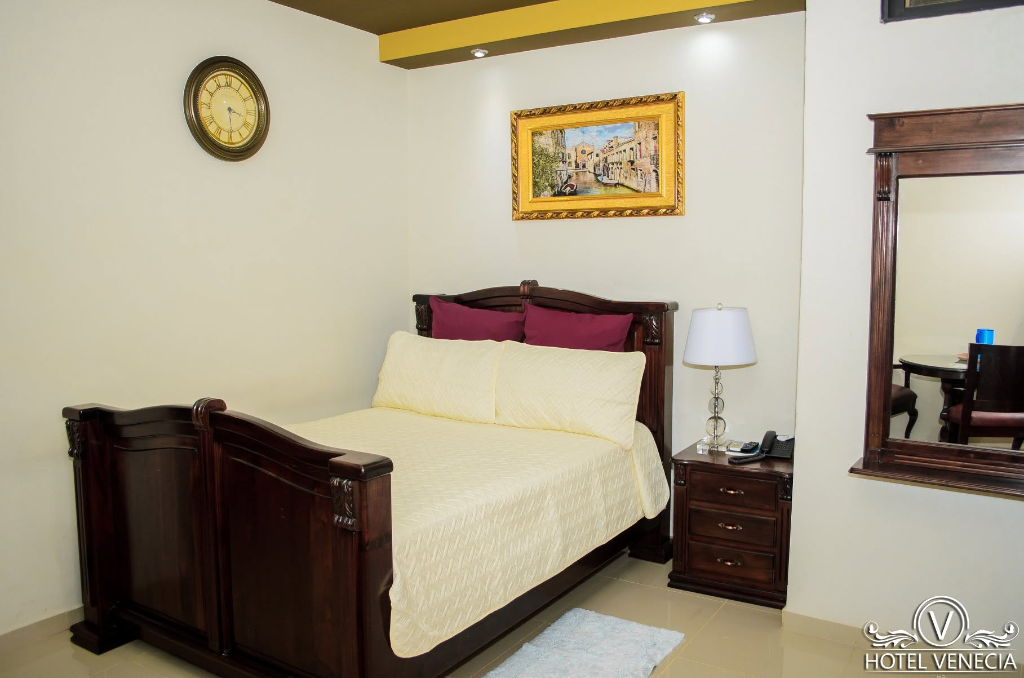
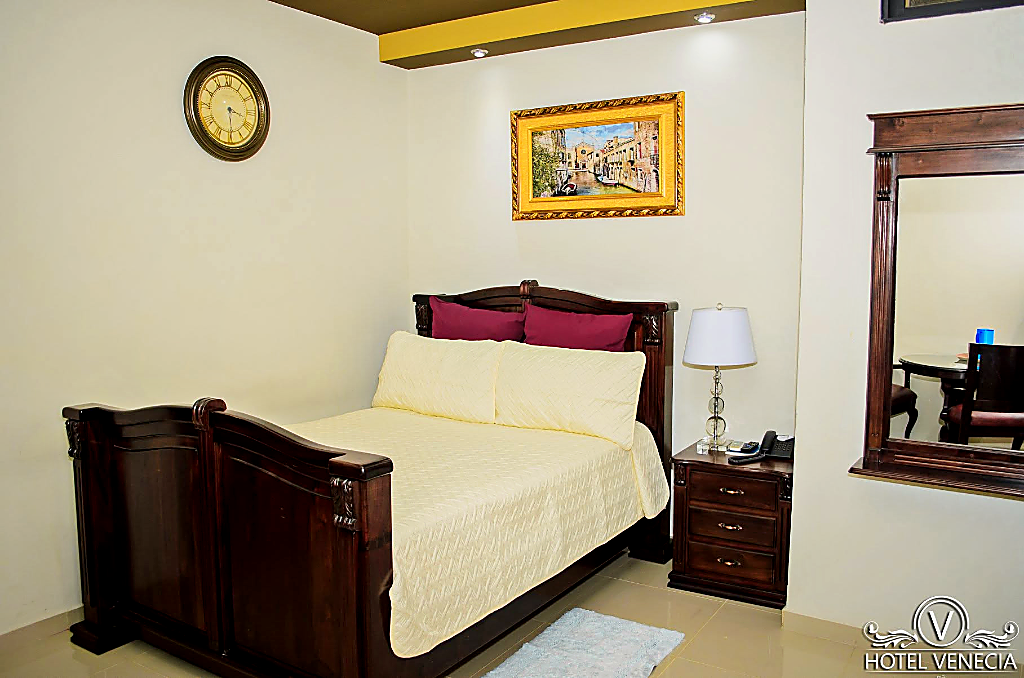
style(media): aplicar postproduccion de iluminacion, sombras, color calido y limpieza de bordes a fotos de habitaciones

diff --git a/index.html b/index.html
@@ -392,7 +392,7 @@
         <div class="rooms-grid">
           <a class="room reveal" id="room-sencilla" target="_blank" rel="noopener"
             href="https://wa.me/50499377949?text=Hola%2C%20consulto%20disponibilidad%20de%20habitaci%C3%B3n%20Sencilla">
-            <div class="room__img" style="background-image:url('assets/img/habitacion.png')">
+            <div class="room__img" style="background-image:url('assets/img/habitacion.png?v=20261119d')">
               <svg class="room__arch" viewBox="0 0 400 42" preserveAspectRatio="none" aria-hidden="true">
                 <path d="M0,42 Q200,0 400,42 Z" fill="#FBF7F1" />
                 <path d="M0,41 Q200,0 400,41" fill="none" stroke="#C99A4E" stroke-width="2.2" />
@@ -405,7 +405,7 @@
 
           <a class="room reveal" id="room-doble" target="_blank" rel="noopener"
             href="https://wa.me/50499377949?text=Hola%2C%20consulto%20disponibilidad%20de%20habitaci%C3%B3n%20Doble">
-            <div class="room__img" style="background-image:url('assets/img/habitacion-doble.jpg');background-position:center">
+            <div class="room__img" style="background-image:url('assets/img/habitacion-doble.jpg?v=20261119d');background-position:center">
               <svg class="room__arch" viewBox="0 0 400 42" preserveAspectRatio="none" aria-hidden="true">
                 <path d="M0,42 Q200,0 400,42 Z" fill="#FBF7F1" />
                 <path d="M0,41 Q200,0 400,41" fill="none" stroke="#C99A4E" stroke-width="2.2" />
@@ -418,7 +418,7 @@
 
           <a class="room reveal" id="room-triple" target="_blank" rel="noopener"
             href="https://wa.me/50499377949?text=Hola%2C%20consulto%20disponibilidad%20de%20habitaci%C3%B3n%20Triple">
-            <div class="room__img" style="background-image:url('assets/img/habitacion-triple.jpg');background-position:center">
+            <div class="room__img" style="background-image:url('assets/img/habitacion-triple.jpg?v=20261119d');background-position:center">
               <svg class="room__arch" viewBox="0 0 400 42" preserveAspectRatio="none" aria-hidden="true">
                 <path d="M0,42 Q200,0 400,42 Z" fill="#FBF7F1" />
                 <path d="M0,41 Q200,0 400,41" fill="none" stroke="#C99A4E" stroke-width="2.2" />
@@ -431,7 +431,7 @@
 
           <a class="room room--featured reveal" id="room-suite" target="_blank" rel="noopener"
             href="https://wa.me/50499377949?text=Hola%2C%20consulto%20disponibilidad%20de%20la%20Suite">
-            <div class="room__img" style="background-image:url('assets/img/habitacion.png');background-position:right center">
+            <div class="room__img" style="background-image:url('assets/img/habitacion.png?v=20261119d');background-position:right center">
               <svg class="room__arch" viewBox="0 0 400 42" preserveAspectRatio="none" aria-hidden="true">
                 <path d="M0,42 Q200,0 400,42 Z" fill="#FBF7F1" />
                 <path d="M0,41 Q200,0 400,41" fill="none" stroke="#C99A4E" stroke-width="2.2" />
